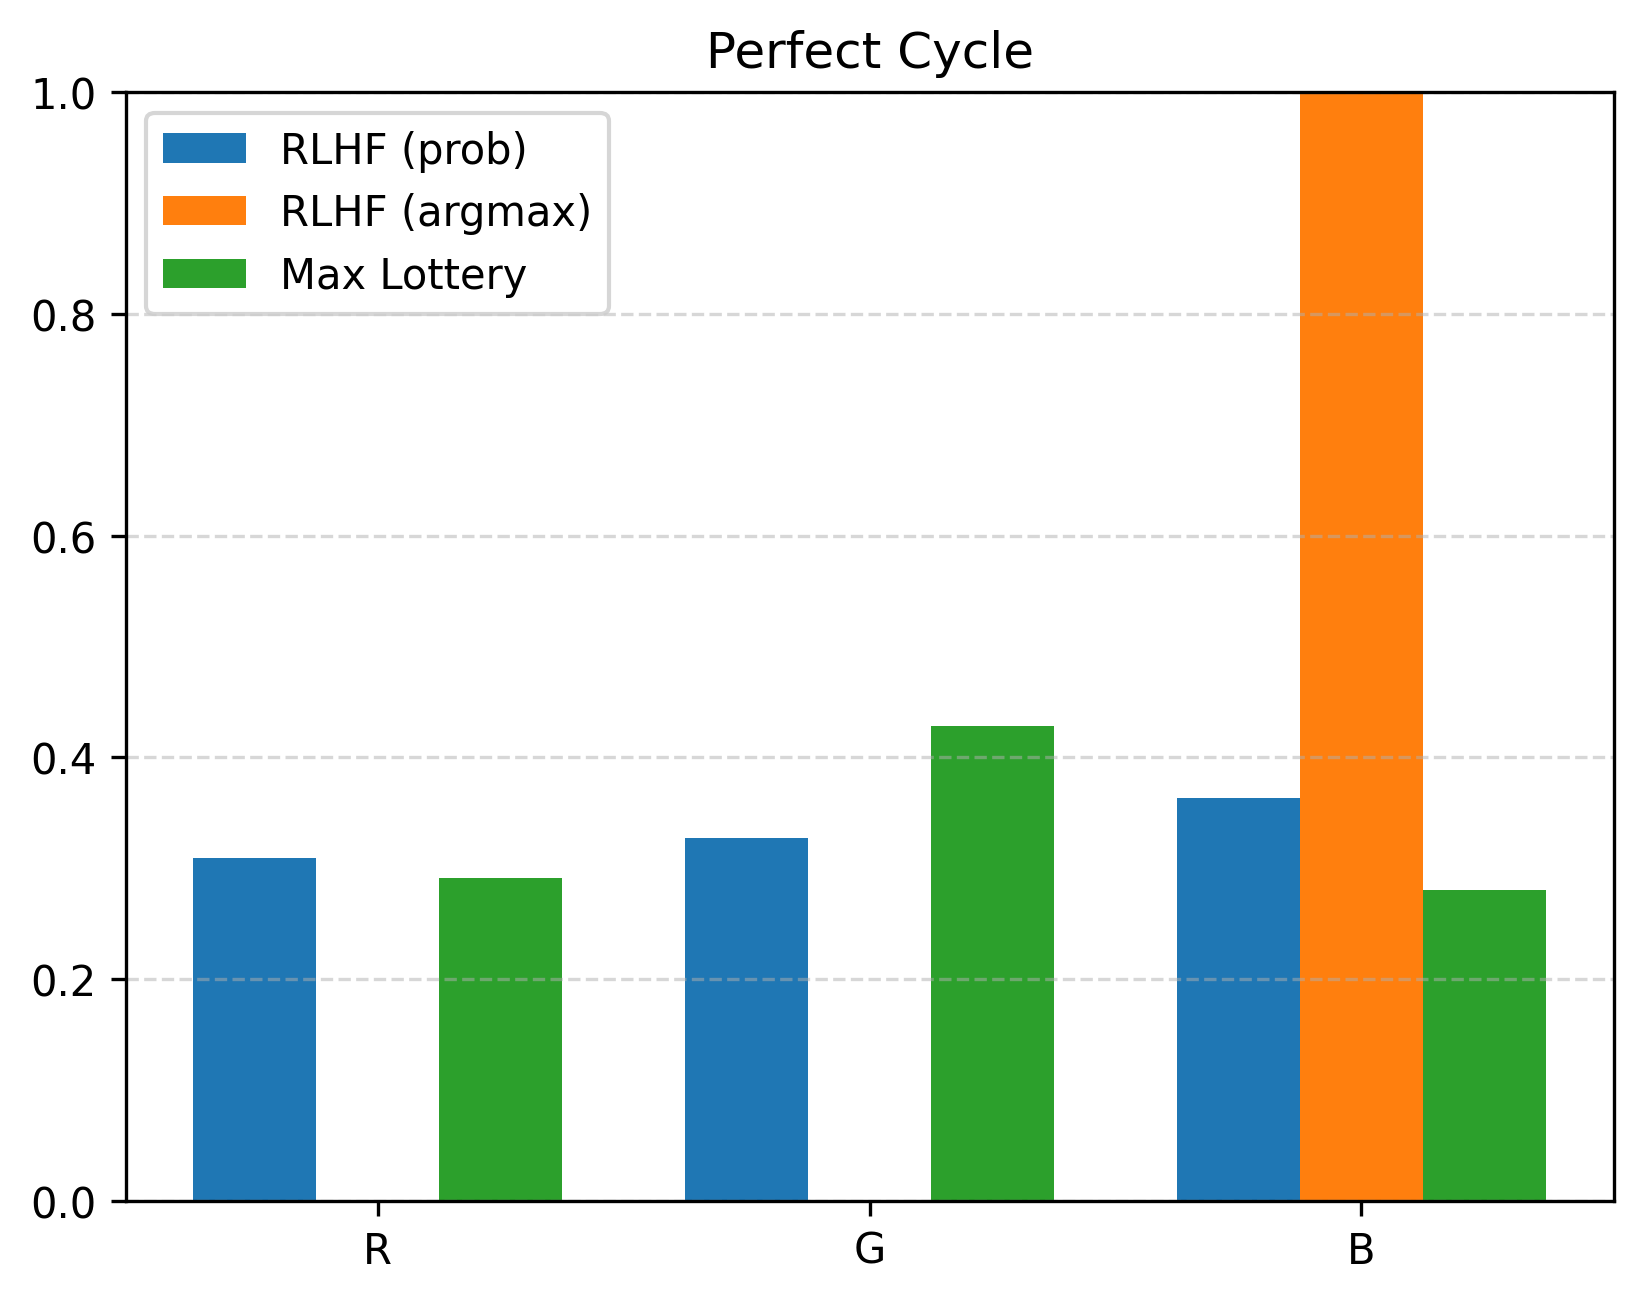
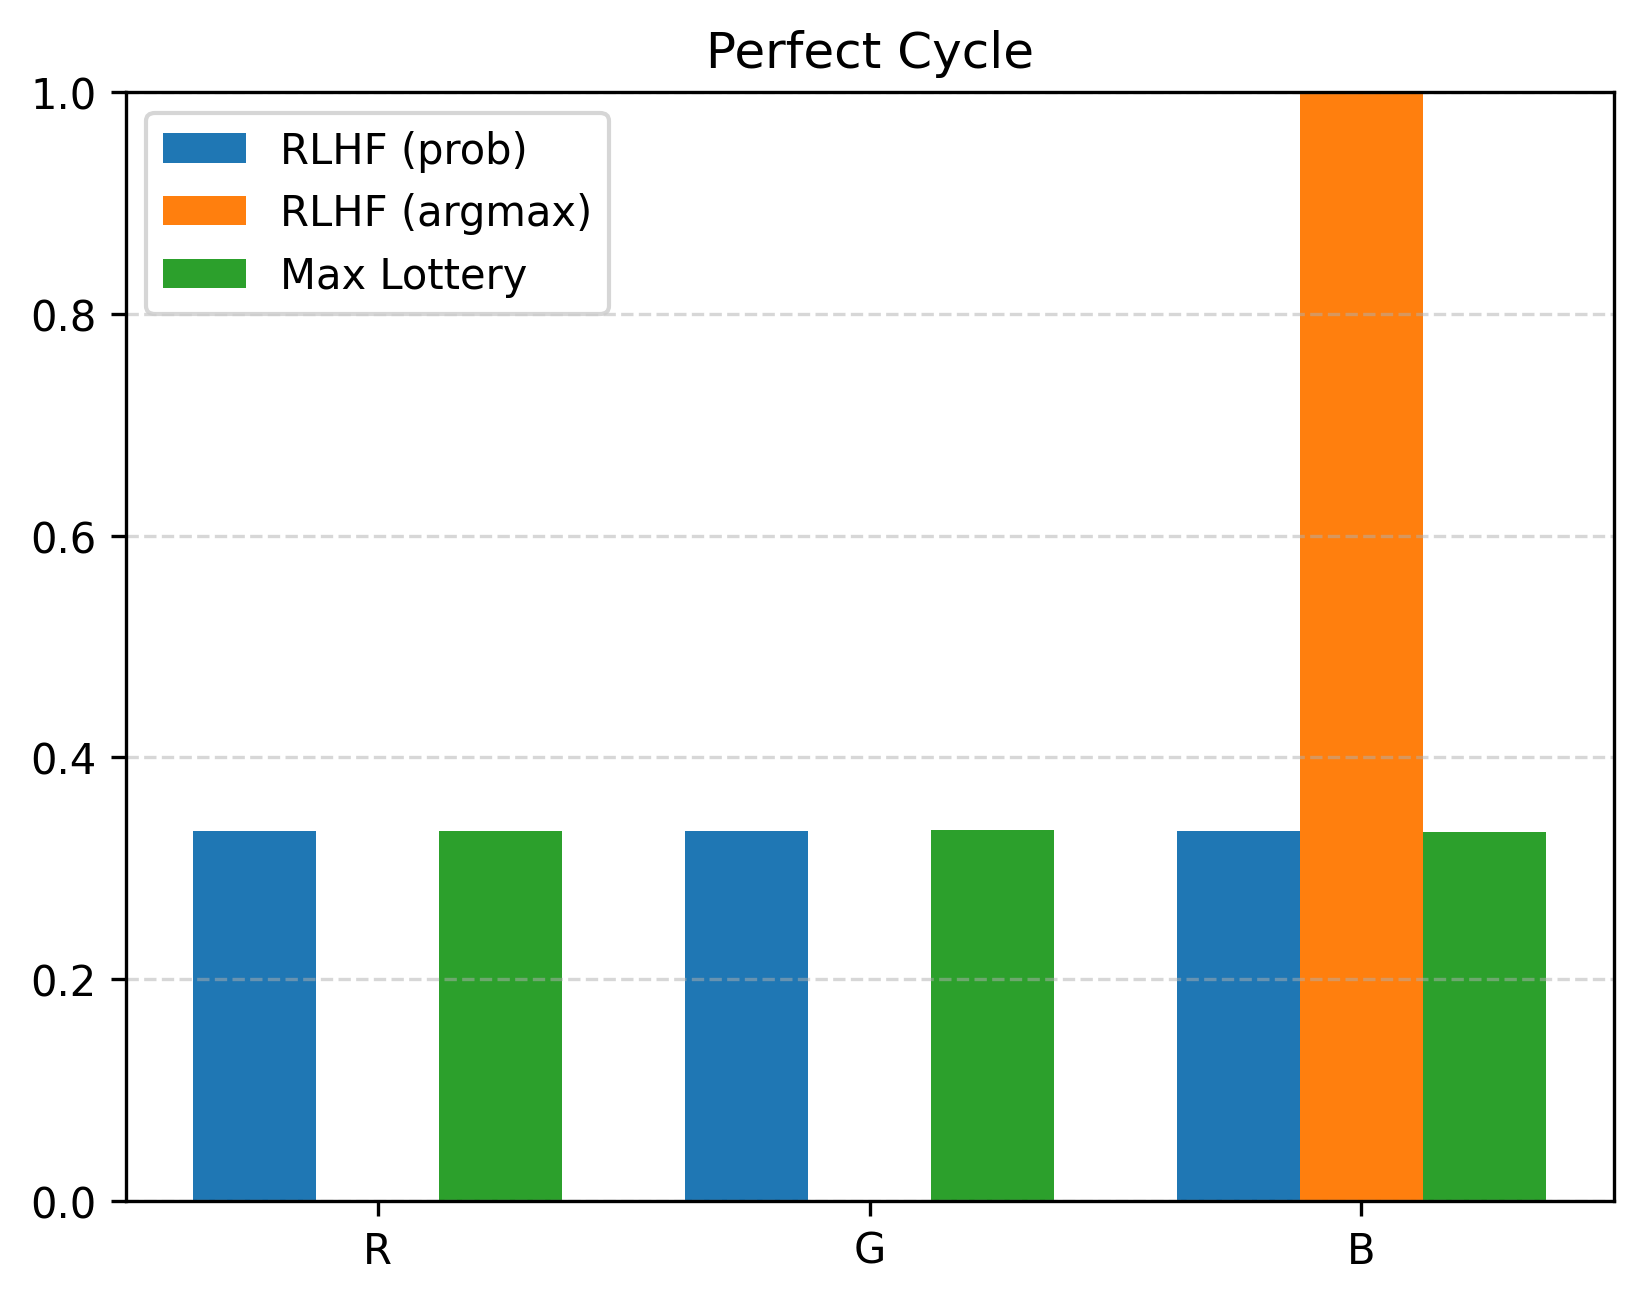
increased samples from a thousand to a million

diff --git a/main.py b/main.py
@@ -109,7 +109,7 @@ def plot_results(rlhf_prob, rlhf_det, ml, title, filename):
 
 # Experiment runner
 def run_experiment(distribution, label, filename):
-    data = generate_dataset(2000, distribution)
+    data = generate_dataset(pow(10, 6), distribution)
     rlhf_prob = rlhf_scores(data)
     rlhf_det = rlhf_argmax(rlhf_prob)
     M = build_margin_matrix(data)
